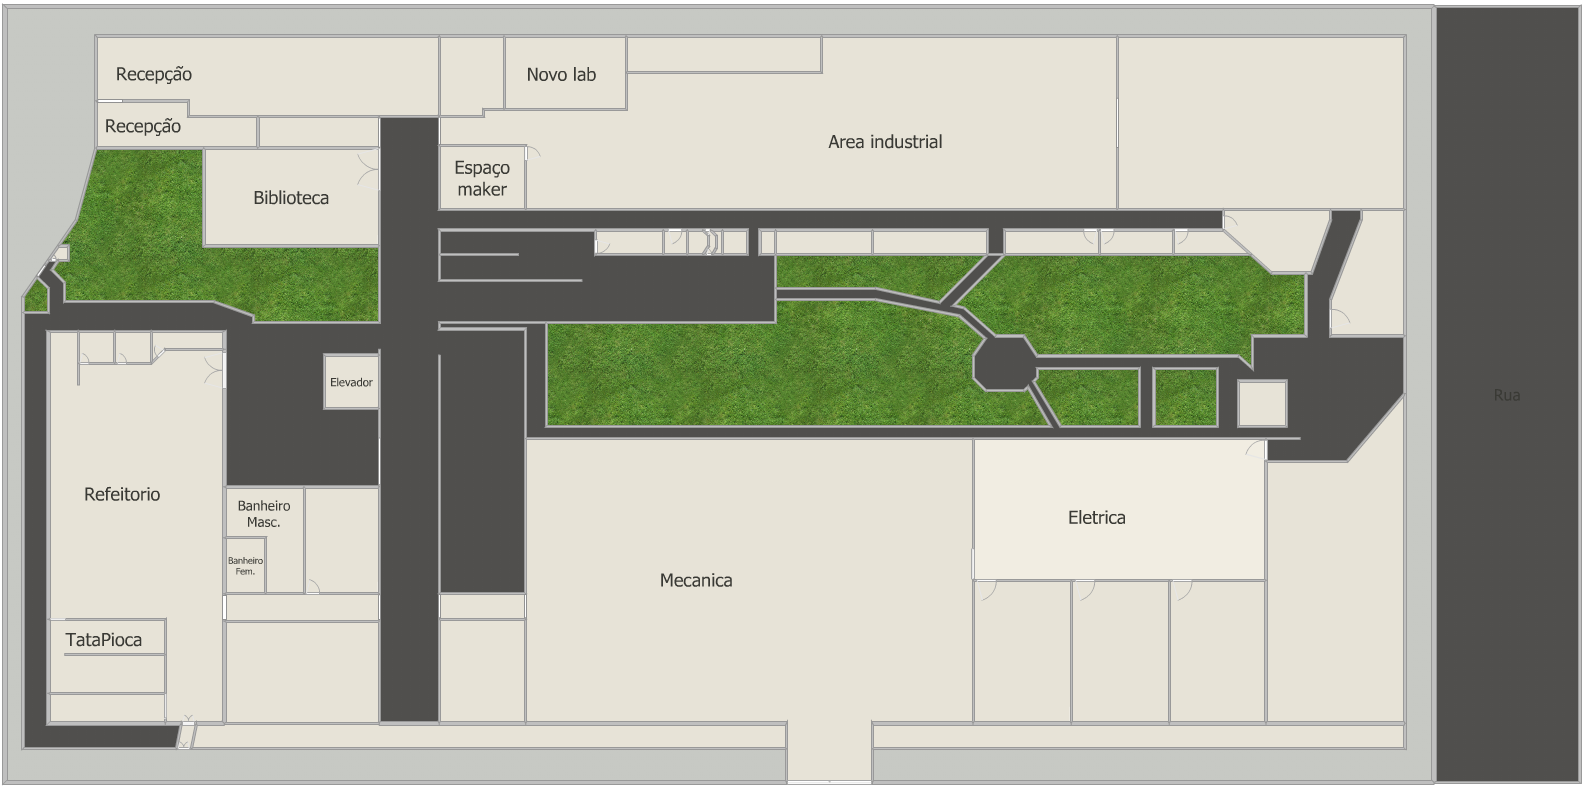
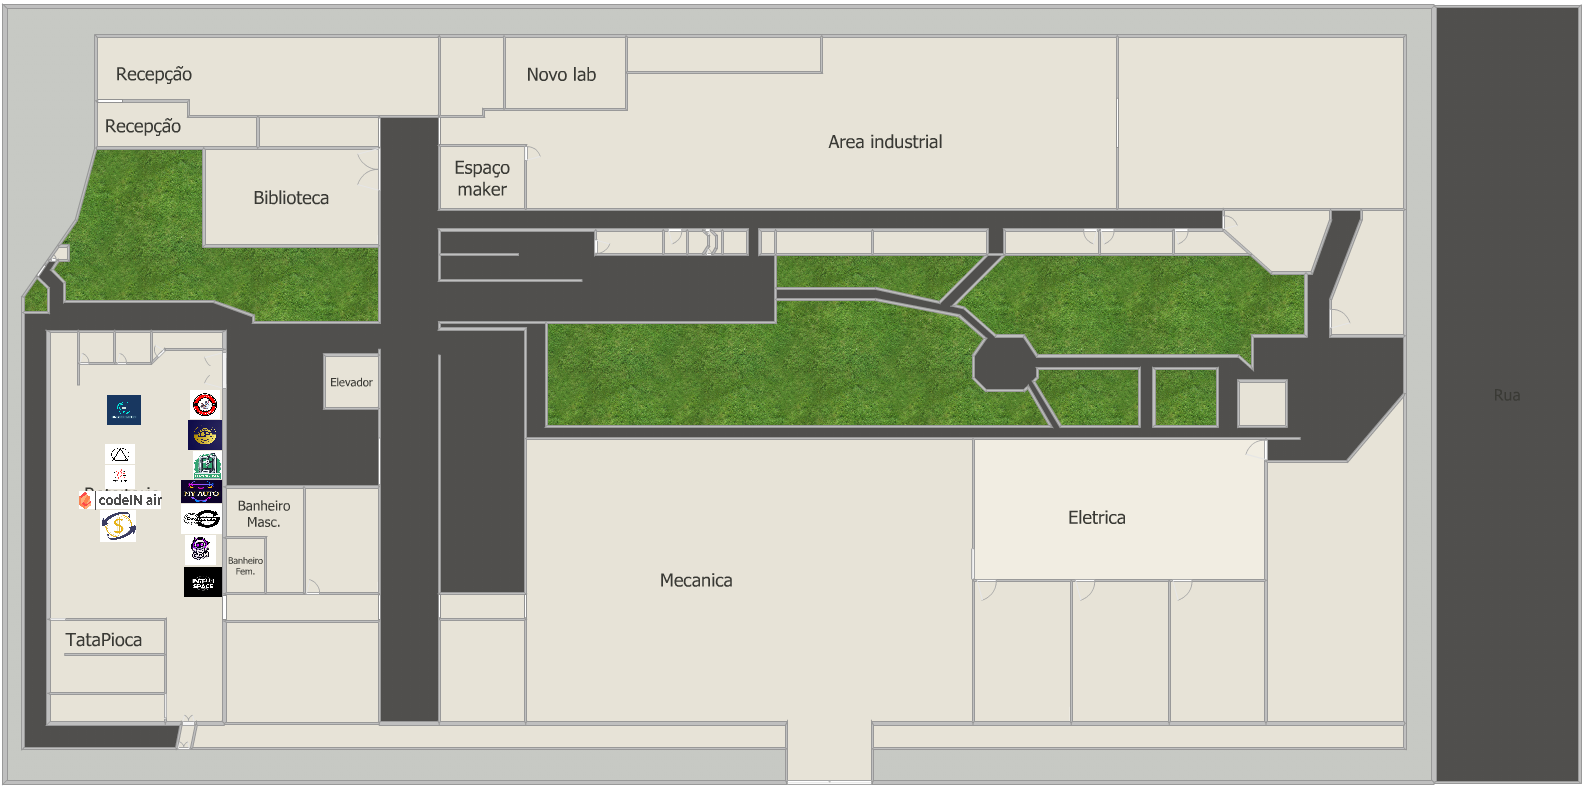
06/06

Changed region(s): [[0.031, 0.4885, 0.1549, 0.7634]]

diff --git a/GEO-Senai/Front-end/screens/TelaInicial.js b/GEO-Senai/Front-end/screens/TelaInicial.js
@@ -56,9 +56,17 @@ const TelaInicial = ({ navigation }) => {
     setOpcoes(!opcoes);
   };
 
+  const [modalTchau, setModalTchau] = useState(false);
+
+  const toggleModalTchau = () => {
+    setModalTchau(!modalTchau)
+  }
+
   const switchToggle = () => {
     if (!modoApresentacao) {
       toggleModal();
+    } else {
+      toggleModalTchau();
     }
     toggleApresentacao();
     setOpcoes(false);
@@ -223,6 +231,36 @@ const TelaInicial = ({ navigation }) => {
           </View>
         </View>
       </Modal>
+
+      <Modal
+        animationType="slide"
+        transparent={true}
+        visible={modalTchau}
+        onRequestClose={() => {
+          setModalTchau(!modalTchau);
+        }}
+      >
+        <View style={styles.centeredView}>
+          <View style={styles.modalView}>
+            <Text style={{...styles.modalText, fontSize: 40, fontWeight: 'bold'}}>Parece que nosso tempo chegou ao fim...</Text>
+            <Text style={{...styles.modalText, fontSize: 30}}>Obrigado por utilizar o GEO SENAI :{")"} .</Text>
+            <Text style={{...styles.modalText, fontSize: 28}}>Agora, que tal visitar também o <Text style={{fontWeight: 'bold'}}>IntelliSpace</Text> no andar de cima?</Text>
+            <Text style={{...styles.modalText, fontSize: 28}}>Escaneie o QR code abaixo e <Text style={{fontWeight: 'bold'}}>obtenha o caminho para o projeto no auditório</Text>!</Text>
+            <Image source={require("./../assets/Caminho_IntelliSpace.png")} style={{height: 500, width: 500}}/>
+            <Pressable onPress={toggleModalTchau}
+              style={{
+                alignItems: "center",
+                backgroundColor: "red",
+                borderRadius: 20,
+                margin: 20,
+              }}
+            >
+              <Text style={{ fontSize: 30, fontWeight:'bold', padding: 10, color: 'white' }}>Até logo</Text>
+            </Pressable>
+          </View>
+        </View>
+      </Modal>
+
     </View>
   );
 };
